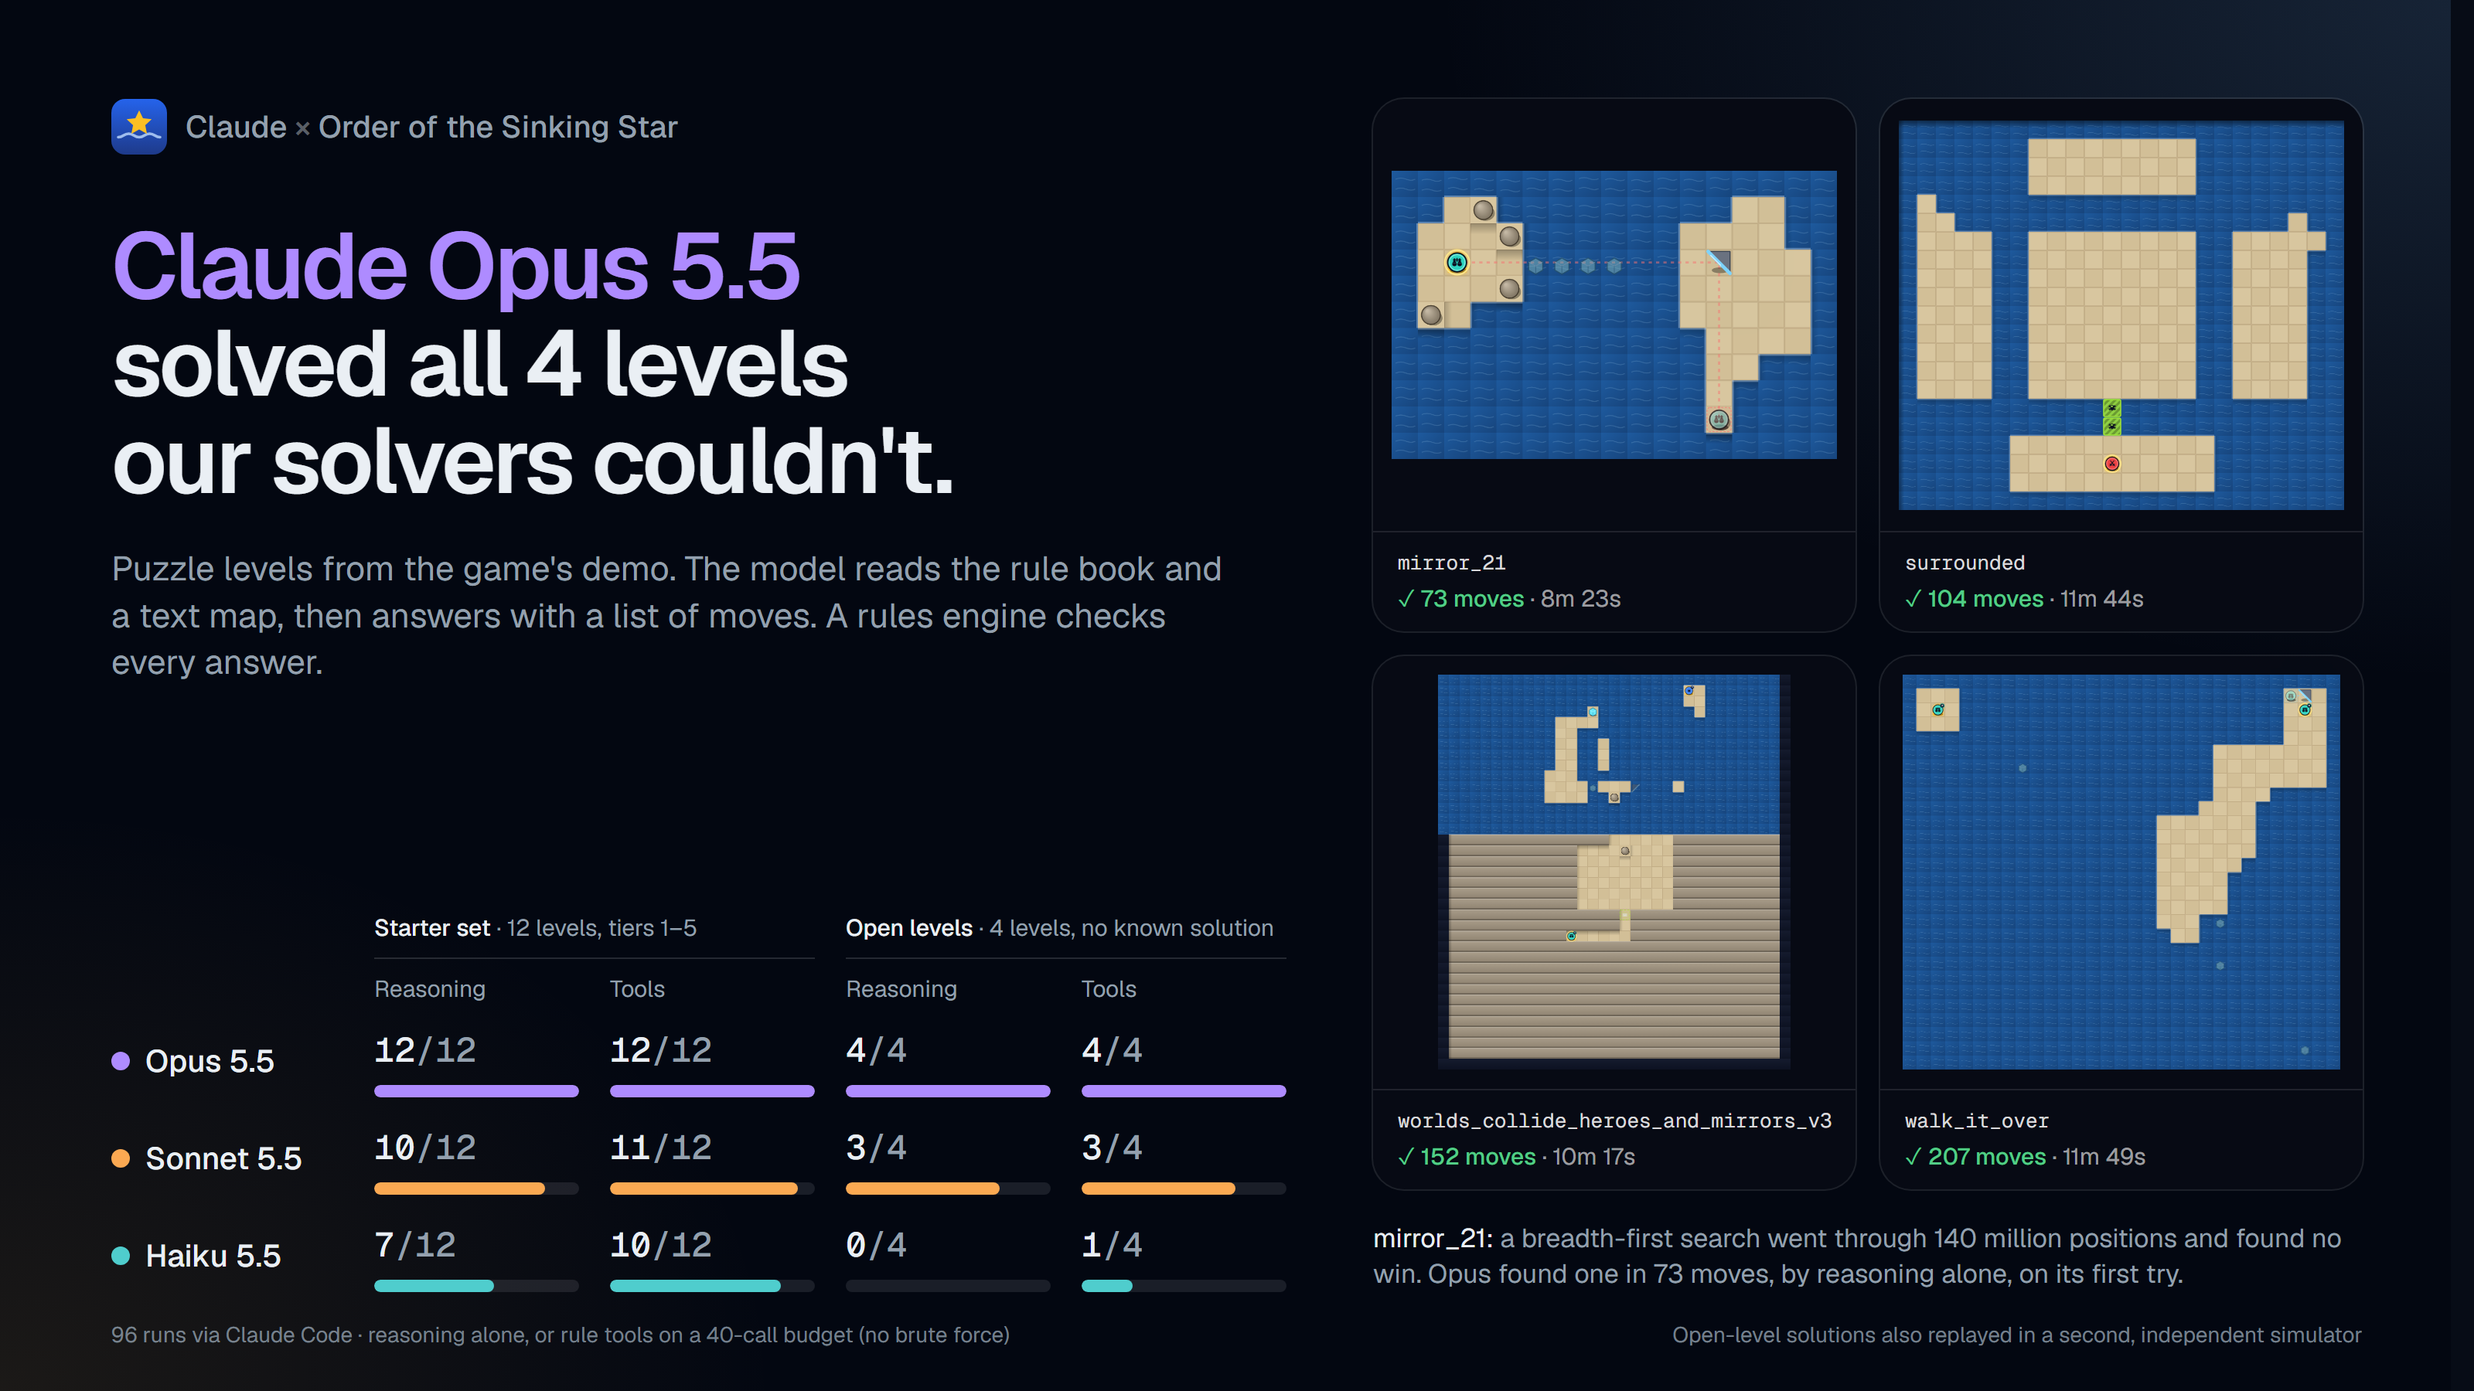
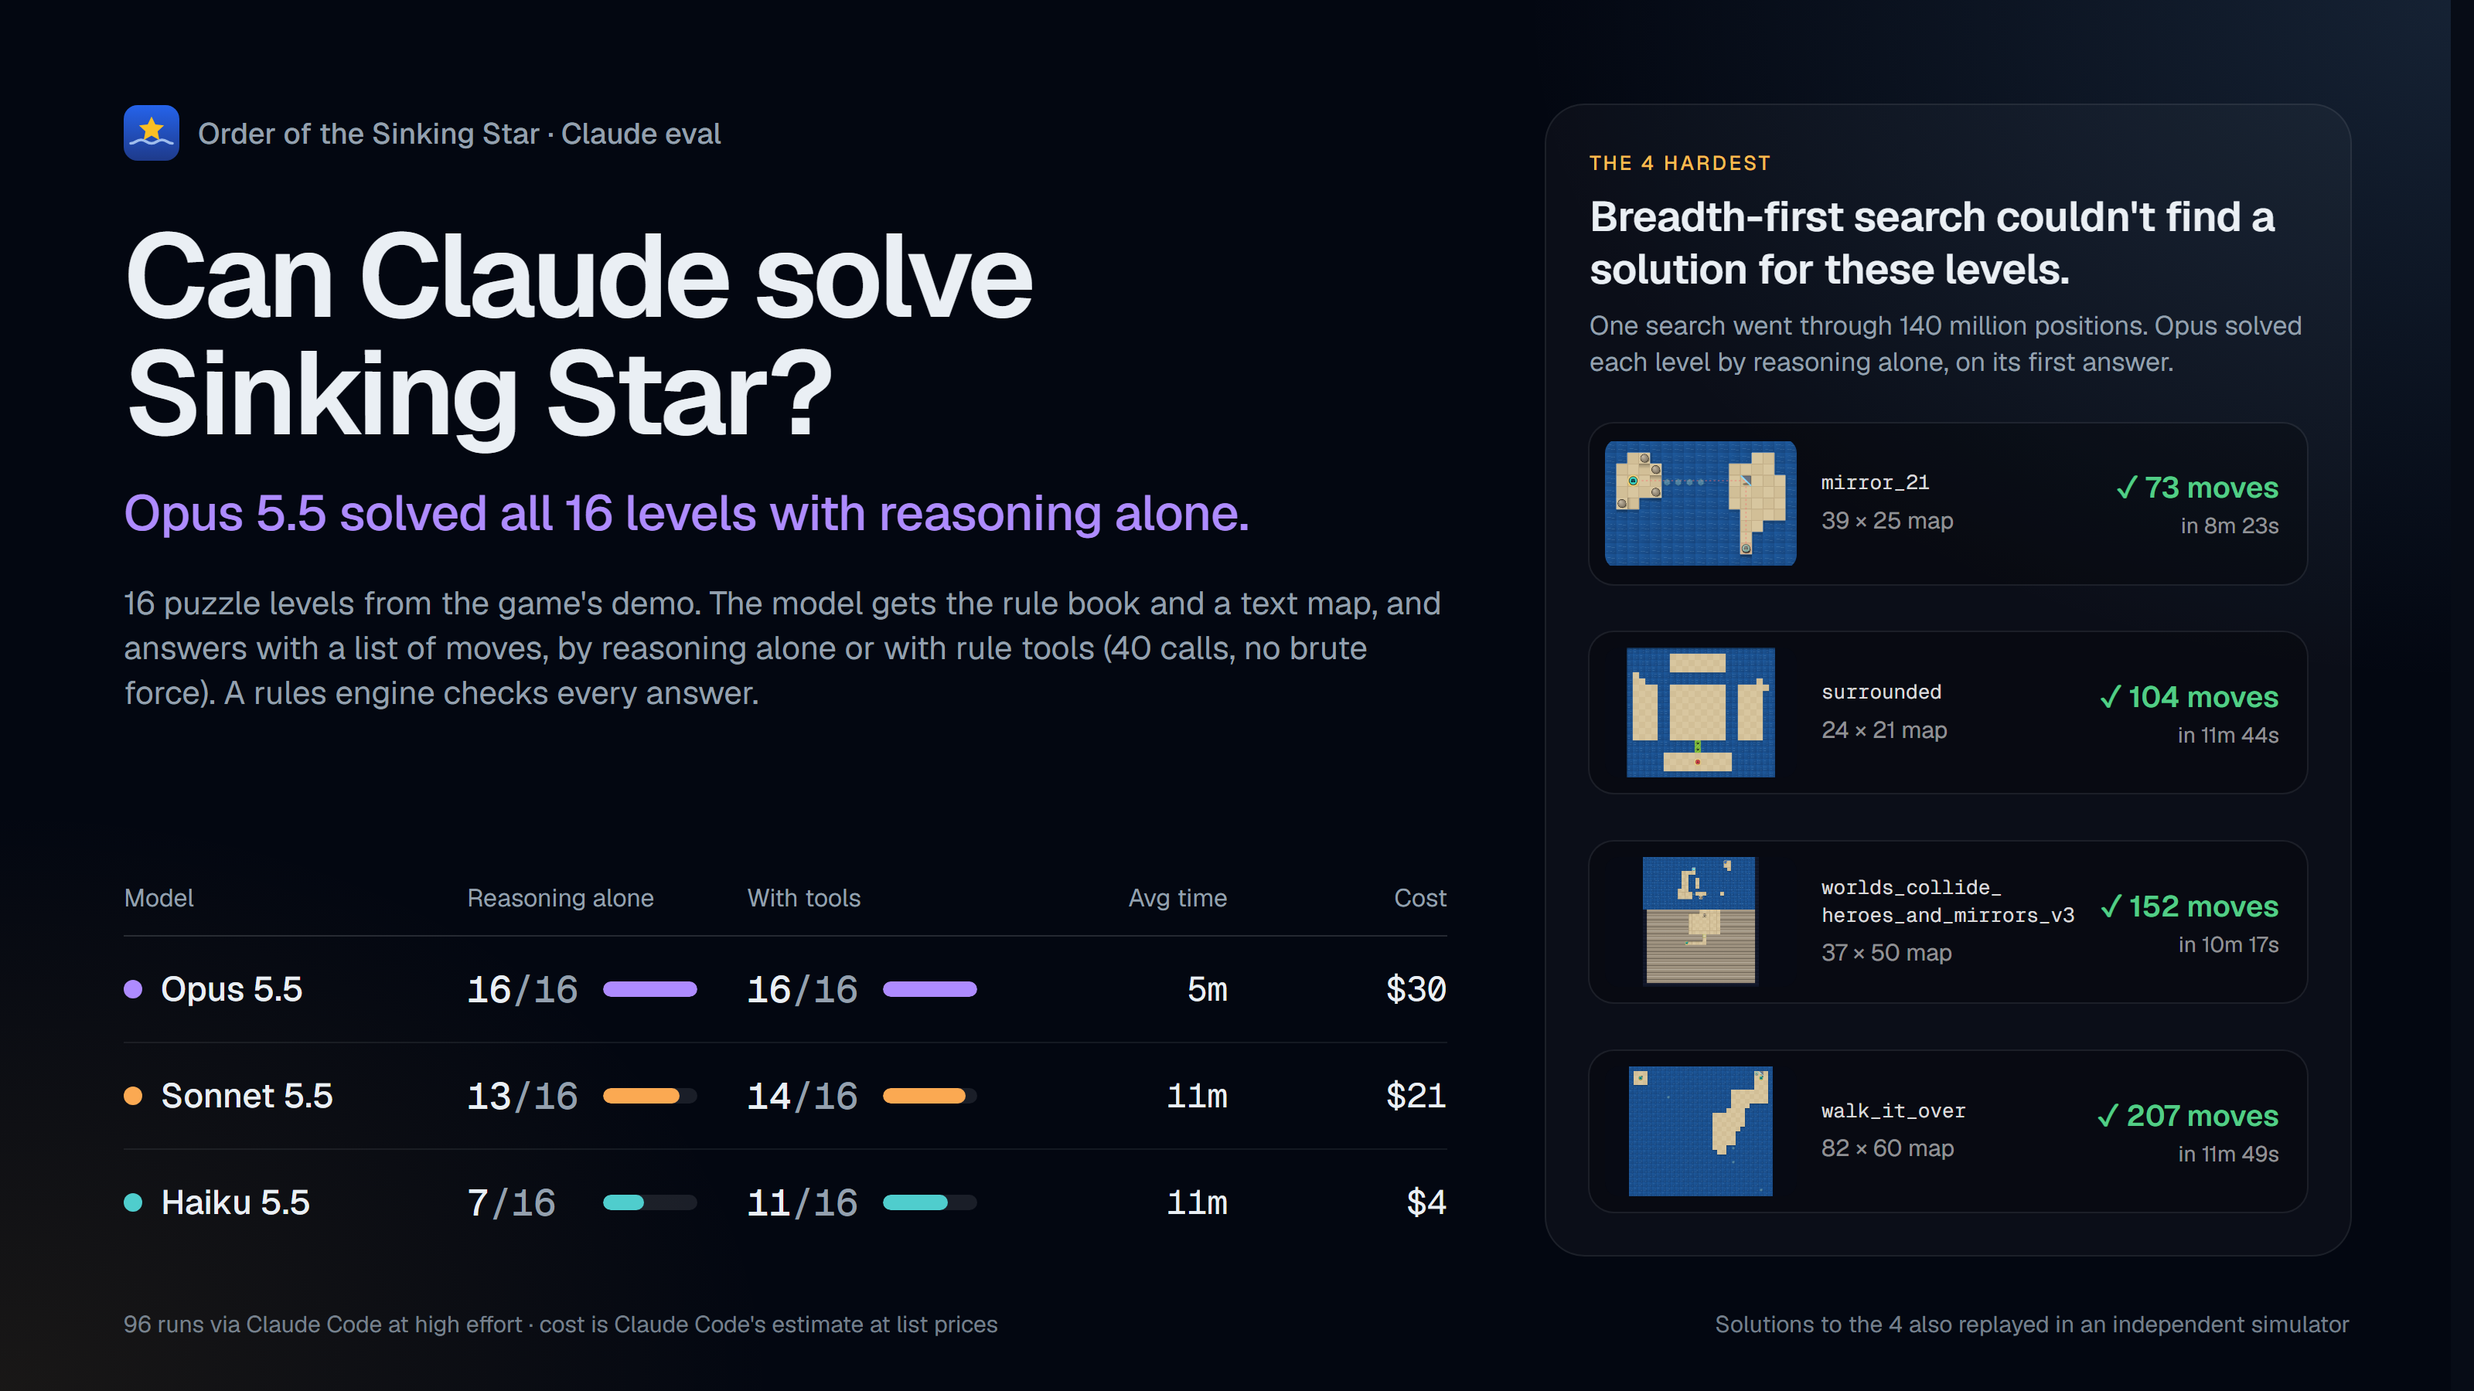
Share card: new title, one combined scoreboard with time and cost, and the 4 levels BFS could not solve

diff --git a/web/src/pages/share.tsx b/web/src/pages/share.tsx
@@ -4,8 +4,8 @@ import { useEffect, useRef } from "react"
 import { Logo } from "@/components/site-header"
 import { Board, cropFor } from "@/lib/board"
 import { loadLevel, replay } from "@/lib/engine"
-import { getIndex, getLevel, getRunFile, useData, type Index, type LevelFile, type RunFile } from "@/lib/data"
-import { byModel, dur, modelColor, modelName, TRACK, TRACKS } from "@/lib/format"
+import { getIndex, getLevel, getRunFile, useData, type Index, type LevelFile, type RunFile, type RunRecord } from "@/lib/data"
+import { byModel, dur, modelColor, modelName } from "@/lib/format"
 
 const FEATURED = "claude-opus-5-5"
 const OPEN = ["mirror_21", "surrounded", "worlds_collide_heroes_and_mirrors_v3", "walk_it_over"]
@@ -27,118 +27,113 @@ export function SharePage() {
     document.documentElement.classList.add("dark")
   }, [])
   return (
-    <div className="dark flex h-[900px] w-[1600px] overflow-hidden bg-stage text-foreground" style={{ fontFeatureSettings: '"ss01"' }}>
+    <div className="dark flex h-[900px] w-[1600px] overflow-hidden bg-stage text-foreground">
       {data ? <Card index={data.index} shots={data.shots} /> : null}
     </div>
   )
 }
 
 function Card({ index, shots }: { index: Index; shots: Shot[] }) {
-  const recs = index.runs.flatMap((run) => run.records.map((r) => ({ set: run.set, r })))
-  const models = [...new Set(recs.map((x) => x.r.model))].sort(byModel)
-  const sets = [
-    { key: "starter", name: "Starter set", sub: "12 levels, tiers 1–5" },
-    { key: "frontier", name: "Open levels", sub: "4 levels, no known solution" },
-  ]
-  const runs = recs.length
+  const recs = index.runs.flatMap((run) => run.records)
+  const models = [...new Set(recs.map((r) => r.model))].sort(byModel)
+  const levels = new Set(recs.map((r) => r.level)).size
+  const featured = recs.filter((r) => r.model === FEATURED && r.track === "reasoning")
+  const allByReasoning = featured.length === levels && featured.every((r) => r.won)
   return (
     <div
-      className="relative flex size-full gap-14 px-[72px] py-[64px]"
+      className="relative flex size-full gap-16 px-[80px] pt-[68px] pb-[88px]"
       style={{
         background:
-          "radial-gradient(60% 70% at 100% 0%, color-mix(in oklch, var(--primary) 16%, transparent), transparent 70%), radial-gradient(45% 60% at 0% 100%, color-mix(in oklch, var(--gold) 10%, transparent), transparent 70%)",
+          "radial-gradient(55% 70% at 100% 0%, color-mix(in oklch, var(--primary) 15%, transparent), transparent 70%), radial-gradient(45% 60% at 0% 100%, color-mix(in oklch, var(--gold) 9%, transparent), transparent 70%)",
       }}
     >
-      <div className="flex w-[760px] shrink-0 flex-col">
-        <div className="flex items-center gap-3 text-[20px] font-medium text-muted-foreground">
+      <div className="flex min-w-0 flex-1 flex-col">
+        <div className="flex items-center gap-3 text-[19px] font-medium text-muted-foreground">
           <Logo className="size-9" />
-          <span>
-            Claude <span className="text-foreground/40">×</span> Order of the Sinking Star
-          </span>
+          Order of the Sinking Star · Claude eval
         </div>
 
-        <h1 className="mt-10 text-[60px] leading-[1.05] font-semibold tracking-[-0.03em] text-balance">
-          <span style={{ color: modelColor(FEATURED) }}>Claude Opus 5.5</span> solved all 4 levels our solvers couldn't.
-        </h1>
-        <p className="mt-6 text-[22px] leading-snug text-pretty text-muted-foreground">
-          Puzzle levels from the game's demo. The model reads the rule book and a text map, then answers with a list of moves. A rules engine checks
-          every answer.
+        <h1 className="mt-9 text-[76px] leading-[1] font-semibold tracking-[-0.035em]">Can Claude solve Sinking Star?</h1>
+        <p className="mt-5 text-[32px] leading-tight font-medium tracking-[-0.01em]" style={{ color: modelColor(FEATURED) }}>
+          {allByReasoning ? `Opus 5.5 solved all ${levels} levels with reasoning alone.` : `Opus 5.5 solved ${featured.filter((r) => r.won).length} of ${levels} levels with reasoning alone.`}
+        </p>
+        <p className="mt-6 text-[21px] leading-snug text-pretty text-muted-foreground">
+          {levels} puzzle levels from the game's demo. The model gets the rule book and a text map, and answers with a list of moves, by reasoning
+          alone or with rule tools (40 calls, no brute force). A rules engine checks every answer.
         </p>
 
-        <div className="mt-auto">
-          <div className="mb-3 grid grid-cols-[150px_repeat(4,1fr)] gap-x-5 text-[15px] text-muted-foreground">
-            <span />
-            {sets.map((s) => (
-              <div key={s.key} className="col-span-2 border-b border-foreground/15 pb-2">
-                <span className="font-medium text-foreground">{s.name}</span> <span>· {s.sub}</span>
-              </div>
-            ))}
-            <span />
-            {sets.flatMap((s) =>
-              TRACKS.map((t) => (
-                <span key={s.key + t} className="pt-2">
-                  {TRACK[t].name}
-                </span>
-              )),
-            )}
-          </div>
-          <div className="grid grid-cols-[150px_repeat(4,1fr)] items-center gap-x-5 gap-y-4">
-            {models.map((m) => (
-              <Row key={m} model={m} cells={sets.flatMap((s) => TRACKS.map((t) => recs.filter((x) => x.set === s.key && x.r.model === m && x.r.track === t).map((x) => x.r.won)))} />
-            ))}
-          </div>
-        </div>
+        <Scoreboard models={models} recs={recs} levels={levels} />
       </div>
 
-      <div className="flex min-w-0 flex-1 flex-col">
-        <div className="grid min-h-0 flex-1 grid-cols-2 grid-rows-[repeat(2,minmax(0,1fr))] gap-4">
+      <div className="flex w-[520px] shrink-0 flex-col rounded-3xl bg-white/[0.03] p-7 ring-1 ring-white/10">
+        <div className="text-[13px] font-medium tracking-[0.12em] text-gold uppercase">The 4 hardest</div>
+        <h2 className="mt-2 text-[27px] leading-tight font-semibold tracking-[-0.01em]">Breadth-first search couldn't find a solution for these levels.</h2>
+        <p className="mt-2 text-[17px] leading-snug text-muted-foreground">
+          One search went through 140 million positions. Opus solved each level by reasoning alone, on its first answer.
+        </p>
+        <div className="mt-7 flex flex-1 flex-col justify-between">
           {shots.map((s) => (
-            <Shot key={s.level.meta.name} shot={s} />
+            <ShotRow key={s.level.meta.name} shot={s} />
           ))}
         </div>
-        <p className="mt-5 text-[17px] leading-snug text-muted-foreground">
-          <span className="text-foreground">mirror_21:</span> a breadth-first search went through 140 million positions and found no win. Opus found one in
-          73 moves, by reasoning alone, on its first try.
-        </p>
       </div>
 
-      <div className="absolute inset-x-[72px] bottom-[26px] flex justify-between text-[14px] text-muted-foreground/80">
-        <span>
-          {runs} runs via Claude Code · reasoning alone, or rule tools on a 40-call budget (no brute force)
-        </span>
-        <span>Open-level solutions also replayed in a second, independent simulator</span>
+      <div className="absolute inset-x-[80px] bottom-[32px] flex justify-between text-[15px] text-muted-foreground/80">
+        <span>{recs.length} runs via Claude Code at high effort · cost is Claude Code's estimate at list prices</span>
+        <span>Solutions to the 4 also replayed in an independent simulator</span>
       </div>
     </div>
   )
 }
 
-function Row({ model, cells }: { model: string; cells: boolean[][] }) {
+function Scoreboard({ models, recs, levels }: { models: string[]; recs: RunRecord[]; levels: number }) {
+  const cols = "grid-cols-[190px_1fr_1fr_130px_110px]"
   return (
-    <>
-      <span className="flex items-center gap-2.5 text-[20px] font-medium">
-        <span className="size-3 rounded-full" style={{ background: modelColor(model) }} />
-        {modelName(model)}
-      </span>
-      {cells.map((c, i) => {
-        const won = c.filter(Boolean).length
+    <div className="mt-auto">
+      <div className={`grid ${cols} gap-x-8 border-b border-foreground/15 pb-3 text-[16px] text-muted-foreground`}>
+        <span>Model</span>
+        <span>Reasoning alone</span>
+        <span>With tools</span>
+        <span className="text-right">Avg time</span>
+        <span className="text-right">Cost</span>
+      </div>
+      {models.map((m) => {
+        const rs = recs.filter((r) => r.model === m)
+        const solved = (t: string) => rs.filter((r) => r.track === t && r.won).length
         return (
-          <div key={i} className="space-y-1.5">
-            <div className="font-mono text-[22px] font-medium tabular-nums">
-              {won}
-              <span className="text-muted-foreground">/{c.length}</span>
-            </div>
-            <div className="h-2 overflow-hidden rounded-full bg-foreground/10">
-              <div className="h-full rounded-full" style={{ width: `${(100 * won) / Math.max(1, c.length)}%`, background: modelColor(model) }} />
-            </div>
+          <div key={m} className={`grid ${cols} items-center gap-x-8 border-b border-foreground/8 py-4 last:border-0`}>
+            <span className="flex items-center gap-3 text-[22px] font-medium">
+              <span className="size-3 rounded-full" style={{ background: modelColor(m) }} />
+              {modelName(m)}
+            </span>
+            {["reasoning", "coding"].map((t) => (
+              <Bar key={t} value={solved(t)} total={levels} color={modelColor(m)} />
+            ))}
+            <span className="text-right font-mono text-[22px] tabular-nums">{dur(rs.reduce((a, r) => a + r.seconds, 0) / rs.length).replace(/ \d+s$/, "")}</span>
+            <span className="text-right font-mono text-[22px] tabular-nums">${Math.round(rs.reduce((a, r) => a + r.cost, 0))}</span>
           </div>
         )
       })}
-    </>
+    </div>
   )
 }
 
-// The level at the moment the model's answer wins.
-function Shot({ shot }: { shot: Shot }) {
+function Bar({ value, total, color }: { value: number; total: number; color: string }) {
+  return (
+    <div className="flex items-center gap-4">
+      <span className="w-[72px] font-mono text-[24px] font-medium tabular-nums">
+        {value}
+        <span className="text-muted-foreground">/{total}</span>
+      </span>
+      <div className="h-2.5 flex-1 overflow-hidden rounded-full bg-foreground/10">
+        <div className="h-full rounded-full" style={{ width: `${(100 * value) / total}%`, background: color }} />
+      </div>
+    </div>
+  )
+}
+
+// A small picture of the level at the moment the model's answer wins, and the result.
+function ShotRow({ shot }: { shot: Shot }) {
   const host = useRef<HTMLDivElement>(null)
   const { level, rec } = shot
   useEffect(() => {
@@ -146,25 +141,36 @@ function Shot({ shot }: { shot: Shot }) {
     const L = loadLevel(level.values)
     const R = replay(L, rec.answer)
     const crop = cropFor(L.rows, R.frames.map((f) => f.st), 1)
-    const b = new Board(host.current, L, { cell: 32, crop })
-    b.render(R.frames[R.frames.length - 1].st, { animate: false })
+    new Board(host.current, L, { cell: 24, crop }).render(R.frames[R.frames.length - 1].st, { animate: false })
   }, [level, rec])
   return (
-    <div className="relative flex min-h-0 flex-col overflow-hidden rounded-2xl bg-[#070a14] ring-1 ring-white/10">
-      <div className="min-h-0 flex-1 p-3">
-        {/* the tile is a size container, so the board fits it whatever its shape */}
+    <div className="flex items-center gap-4 rounded-xl bg-black/25 p-2.5 ring-1 ring-white/[0.07]">
+      <div className="h-[84px] w-[124px] shrink-0 overflow-hidden rounded-md bg-[#070a14]">
         <div className="flex size-full items-center justify-center [container-type:size]">
           <div ref={host} className="w-[min(100cqw,calc(100cqh*var(--ar)))]!" />
         </div>
       </div>
-      <div className="flex flex-col gap-0.5 border-t border-white/10 px-4 py-2.5 text-[15px]">
-        <span className="font-mono text-[13px] whitespace-nowrap text-white/85">{level.meta.name}</span>
-        <span className="text-white/60">
-          <span className="font-medium" style={{ color: "var(--win)" }}>
-            ✓ {rec.result.wonAt} moves
-          </span>{" "}
-          · {dur(rec.attempts.find((a) => a.won)?.t ?? rec.seconds)}
-        </span>
+      <div className="min-w-0 flex-1">
+        <div className="font-mono text-[13px] leading-snug text-white/85">
+          {/* long names break after an underscore */}
+          {level.meta.name.split("_").map((part, i, all) => (
+            <span key={i}>
+              {part}
+              {i < all.length - 1 && (
+                <>
+                  _<wbr />
+                </>
+              )}
+            </span>
+          ))}
+        </div>
+        <div className="mt-1 text-[15px] text-white/55">{level.meta.width} × {level.meta.height} map</div>
+      </div>
+      <div className="shrink-0 pr-2 text-right">
+        <div className="text-[19px] font-semibold" style={{ color: "var(--win)" }}>
+          ✓ {rec.result.wonAt} moves
+        </div>
+        <div className="text-[14px] text-white/55">in {dur(rec.attempts.find((a) => a.won)?.t ?? rec.seconds)}</div>
       </div>
     </div>
   )

diff --git a/web/vite.config.ts b/web/vite.config.ts
@@ -15,6 +15,7 @@ export default defineConfig({
       "@engine": resolve(import.meta.dirname, "../kit/engine/ootss.mjs"),
     },
   },
-  server: { fs: { allow: [".."] } },
+  // polling: native file events are missed on some drives, which serves stale modules
+  server: { fs: { allow: [".."] }, watch: { usePolling: true, interval: 300 } },
   build: { target: "es2023", chunkSizeWarningLimit: 1200 },
 })
